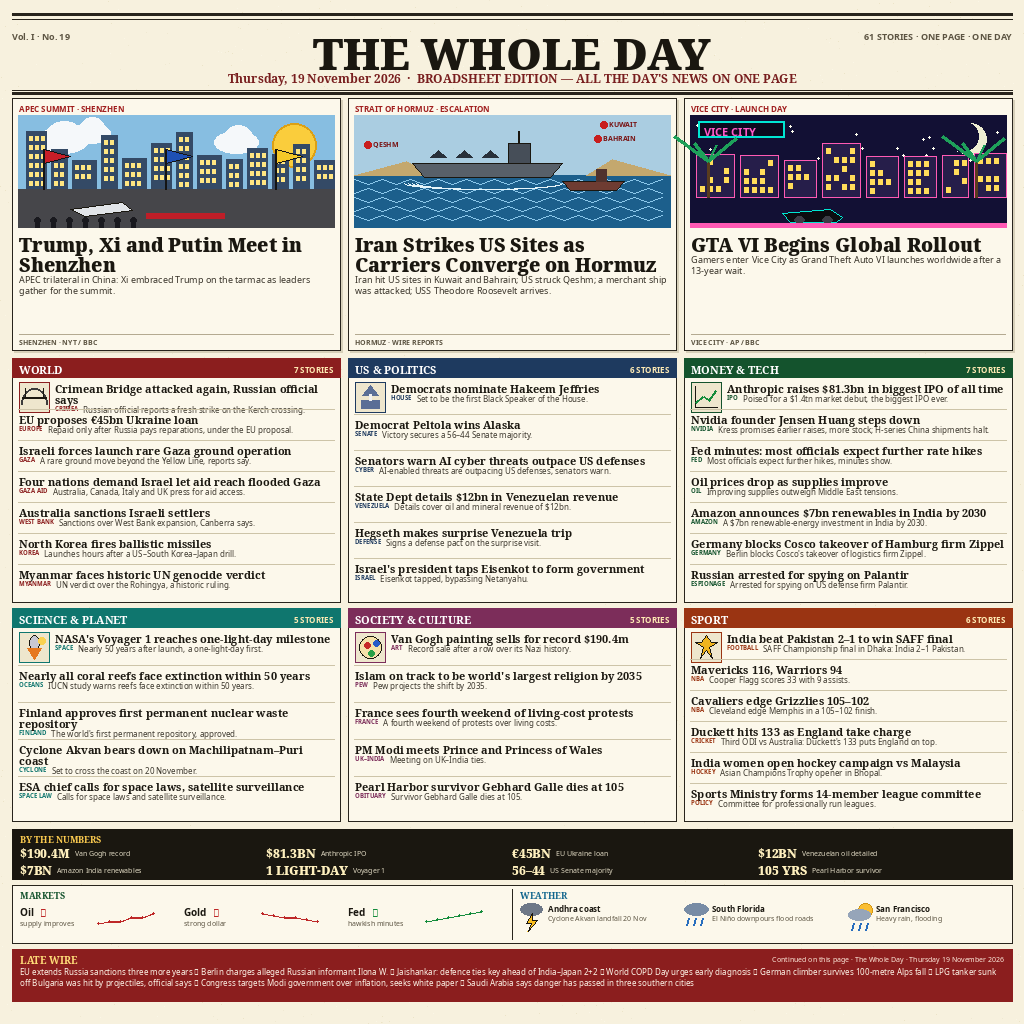
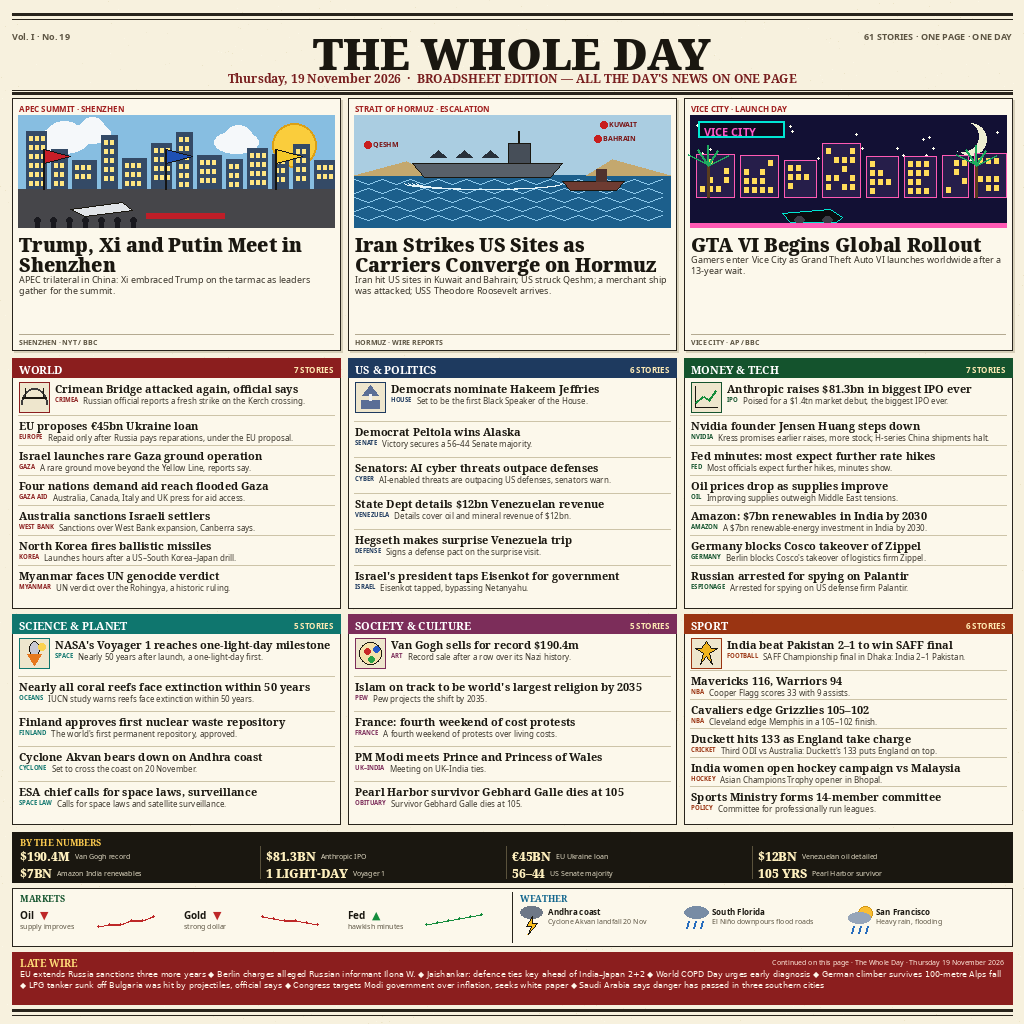
Revision rounds: fix section overflow so all bands fit, DejaVu arrows/ticker glyphs, trimmed dense headlines, palm redraw, page footer rule

Changed region(s): [[0.0, 0.375, 1.0, 1.0], [0.6562, 0.125, 0.7188, 0.1562], [0.9375, 0.125, 0.9688, 0.1562]]

diff --git a/broadsheet.py b/broadsheet.py
@@ -15,6 +15,8 @@ SERIF_REG = f"{FD}/NotoSerif-Regular.ttf"
 SANS_BOLD = f"{FD}/NotoSans-Bold.ttf"
 SANS_REG = f"{FD}/NotoSans-Regular.ttf"
 SANS_SEMI = f"{FD}/NotoSans-SemiBold.ttf"
+DEJA = "/usr/share/fonts/truetype/dejavu/DejaVuSans.ttf"
+DEJA_BOLD = "/usr/share/fonts/truetype/dejavu/DejaVuSans-Bold.ttf"
 
 _cache = {}
 def F(path, size):
@@ -76,42 +78,42 @@ HEROES = [
 
 SECTIONS = [
  ("WORLD", (139,30,30), "bridge", [
-   ("CRIMEA", "Crimean Bridge attacked again, Russian official says", "Russian official reports a fresh strike on the Kerch crossing."),
+   ("CRIMEA", "Crimean Bridge attacked again, official says", "Russian official reports a fresh strike on the Kerch crossing."),
    ("EUROPE", "EU proposes \u20ac45bn Ukraine loan", "Repaid only after Russia pays reparations, under the EU proposal."),
-   ("GAZA", "Israeli forces launch rare Gaza ground operation", "A rare ground move beyond the Yellow Line, reports say."),
-   ("GAZA AID", "Four nations demand Israel let aid reach flooded Gaza", "Australia, Canada, Italy and UK press for aid access."),
+   ("GAZA", "Israel launches rare Gaza ground operation", "A rare ground move beyond the Yellow Line, reports say."),
+   ("GAZA AID", "Four nations demand aid reach flooded Gaza", "Australia, Canada, Italy and UK press for aid access."),
    ("WEST BANK", "Australia sanctions Israeli settlers", "Sanctions over West Bank expansion, Canberra says."),
    ("KOREA", "North Korea fires ballistic missiles", "Launches hours after a US\u2013South Korea\u2013Japan drill."),
-   ("MYANMAR", "Myanmar faces historic UN genocide verdict", "UN verdict over the Rohingya, a historic ruling."),
+   ("MYANMAR", "Myanmar faces UN genocide verdict", "UN verdict over the Rohingya, a historic ruling."),
  ]),
  ("US & POLITICS", (30,58,95), "capitol", [
    ("HOUSE", "Democrats nominate Hakeem Jeffries", "Set to be the first Black Speaker of the House."),
    ("SENATE", "Democrat Peltola wins Alaska", "Victory secures a 56\u201344 Senate majority."),
-   ("CYBER", "Senators warn AI cyber threats outpace US defenses", "AI-enabled threats are outpacing US defenses, senators warn."),
-   ("VENEZUELA", "State Dept details $12bn in Venezuelan revenue", "Details cover oil and mineral revenue of $12bn."),
+   ("CYBER", "Senators: AI cyber threats outpace defenses", "AI-enabled threats are outpacing US defenses, senators warn."),
+   ("VENEZUELA", "State Dept details $12bn Venezuelan revenue", "Details cover oil and mineral revenue of $12bn."),
    ("DEFENSE", "Hegseth makes surprise Venezuela trip", "Signs a defense pact on the surprise visit."),
-   ("ISRAEL", "Israel's president taps Eisenkot to form government", "Eisenkot tapped, bypassing Netanyahu."),
+   ("ISRAEL", "Israel's president taps Eisenkot for government", "Eisenkot tapped, bypassing Netanyahu."),
  ]),
  ("MONEY & TECH", (20,83,45), "chart", [
-   ("IPO", "Anthropic raises $81.3bn in biggest IPO of all time", "Poised for a $1.4tn market debut, the biggest IPO ever."),
+   ("IPO", "Anthropic raises $81.3bn in biggest IPO ever", "Poised for a $1.4tn market debut, the biggest IPO ever."),
    ("NVIDIA", "Nvidia founder Jensen Huang steps down", "Kress promises earlier raises, more stock; H-series China shipments halt."),
-   ("FED", "Fed minutes: most officials expect further rate hikes", "Most officials expect further hikes, minutes show."),
+   ("FED", "Fed minutes: most expect further rate hikes", "Most officials expect further hikes, minutes show."),
    ("OIL", "Oil prices drop as supplies improve", "Improving supplies outweigh Middle East tensions."),
-   ("AMAZON", "Amazon announces $7bn renewables in India by 2030", "A $7bn renewable-energy investment in India by 2030."),
-   ("GERMANY", "Germany blocks Cosco takeover of Hamburg firm Zippel", "Berlin blocks Cosco's takeover of logistics firm Zippel."),
+   ("AMAZON", "Amazon: $7bn renewables in India by 2030", "A $7bn renewable-energy investment in India by 2030."),
+   ("GERMANY", "Germany blocks Cosco takeover of Zippel", "Berlin blocks Cosco's takeover of logistics firm Zippel."),
    ("ESPIONAGE", "Russian arrested for spying on Palantir", "Arrested for spying on US defense firm Palantir."),
  ]),
  ("SCIENCE & PLANET", (15,118,110), "rocket", [
    ("SPACE", "NASA's Voyager 1 reaches one-light-day milestone", "Nearly 50 years after launch, a one-light-day first."),
    ("OCEANS", "Nearly all coral reefs face extinction within 50 years", "IUCN study warns reefs face extinction within 50 years."),
-   ("FINLAND", "Finland approves first permanent nuclear waste repository", "The world's first permanent repository, approved."),
-   ("CYCLONE", "Cyclone Akvan bears down on Machilipatnam\u2013Puri coast", "Set to cross the coast on 20 November."),
-   ("SPACE LAW", "ESA chief calls for space laws, satellite surveillance", "Calls for space laws and satellite surveillance."),
+   ("FINLAND", "Finland approves first nuclear waste repository", "The world's first permanent repository, approved."),
+   ("CYCLONE", "Cyclone Akvan bears down on Andhra coast", "Set to cross the coast on 20 November."),
+   ("SPACE LAW", "ESA chief calls for space laws, surveillance", "Calls for space laws and satellite surveillance."),
  ]),
  ("SOCIETY & CULTURE", (124,45,90), "palette", [
-   ("ART", "Van Gogh painting sells for record $190.4m", "Record sale after a row over its Nazi history."),
+   ("ART", "Van Gogh sells for record $190.4m", "Record sale after a row over its Nazi history."),
    ("PEW", "Islam on track to be world's largest religion by 2035", "Pew projects the shift by 2035."),
-   ("FRANCE", "France sees fourth weekend of living-cost protests", "A fourth weekend of protests over living costs."),
+   ("FRANCE", "France: fourth weekend of cost protests", "A fourth weekend of protests over living costs."),
    ("UK\u2013INDIA", "PM Modi meets Prince and Princess of Wales", "Meeting on UK\u2013India ties."),
    ("OBITUARY", "Pearl Harbor survivor Gebhard Galle dies at 105", "Survivor Gebhard Galle dies at 105."),
  ]),
@@ -121,7 +123,7 @@ SECTIONS = [
    ("NBA", "Cavaliers edge Grizzlies 105\u2013102", "Cleveland edge Memphis in a 105\u2013102 finish."),
    ("CRICKET", "Duckett hits 133 as England take charge", "Third ODI vs Australia: Duckett's 133 puts England on top."),
    ("HOCKEY", "India women open hockey campaign vs Malaysia", "Asian Champions Trophy opener in Bhopal."),
-   ("POLICY", "Sports Ministry forms 14-member league committee", "Committee for professionally run leagues."),
+   ("POLICY", "Sports Ministry forms 14-member committee", "Committee for professionally run leagues."),
  ]),
 ]
 
@@ -226,9 +228,9 @@ def art_vice(d, x, y, w, h):
     d.rectangle([x+8,y+6,x+94,y+22], fill=(10,10,30), outline=(0,230,210), width=2)
     d.text((x+14,y+9), "VICE CITY", font=F(SANS_BOLD,11), fill=(255,90,200))
     for px in (x+18, x+w-30):
-        d.line([px,y+h-30,px,y+h-66], fill=(90,60,30), width=3)
-        for a in (-34,-14,8,28):
-            d.line([px,y+h-66,px+a,y+h-80-abs(a)//3], fill=(30,160,90), width=3)
+        d.line([px,y+h-30,px,y+h-62], fill=(90,60,30), width=3)
+        for a in (-20,-10,0,10,20):
+            d.line([px,y+h-62,px+a,y+h-72- (10-abs(a)//2)], fill=(30,170,95), width=2)
     d.polygon([(x+92,y+h-14),(x+140,y+h-18),(x+152,y+h-10),(x+146,y+h-5),(x+100,y+h-5)], fill=(12,12,16), outline=(0,230,210))
     d.ellipse([x+104,y+h-11,x+114,y+h-4], fill=(60,60,70)); d.ellipse([x+132,y+h-11,x+142,y+h-4], fill=(60,60,70))
     d.rectangle([x,y+h-4,x+w,y+h], fill=(255,90,180))
@@ -302,7 +304,7 @@ def main():
         d.text((x+7,hy+hh-13), hero["src"], font=F(SANS_BOLD,7), fill=MUTED)
     # Sections: 3 columns x 2 rows, row heights sized to card counts
     sy = hy+hh+8
-    row_h = [244, 213]
+    row_h = [250, 210]
     row_y = [sy, sy+row_h[0]+6]
     colw = hw
     positions = [(0,0),(1,0),(2,0),(0,1),(1,1),(2,1)]
@@ -321,18 +323,19 @@ def main():
             tx = x+7
             if ci==0:
                 thumb(d, x+7, cy+1, 30, tk, col); tx = x+43
-            yend = fit_block(d, tx, cy, head, SERIF_BOLD, 11, x2-7-tx, 1.05, 2, 9, INK)
-            dy = yend + 1
+            yend = fit_block(d, tx, cy, head, SERIF_BOLD, 11, x2-7-tx, 1.12, 2, 9, INK)
+            dy = yend + 2
             kw = tw(d, kick, F(SANS_BOLD,6))
             d.text((tx,dy), kick, font=F(SANS_BOLD,6), fill=col)
             d.text((tx+kw+5, dy), one_line(d, deck, F(SANS_REG,8), x2-7-(tx+kw+5)), font=F(SANS_REG,8), fill=(60,55,45))
-            cy += per
+            cy += per + (6 if ci==0 else -1)
             if ci < len(cards)-1: d.line([x+6,cy-3,x2-6,cy-3], fill=(205,196,168), width=1)
     # Numbers band
     ny = row_y[1] + row_h[1] + 8
     d.rectangle([M,ny,R,ny+50], fill=(26,23,16))
     d.text((M+8,ny+4), "BY THE NUMBERS", font=F(SERIF_BOLD,9), fill=(255,205,80))
     nw = (R-M-16)//4
+    for dv in range(1,4): d.line([M+8+dv*nw-6,ny+14,M+8+dv*nw-6,ny+46], fill=(90,82,60), width=1)
     for i,(big,lab) in enumerate(NUMBERS):
         col_i, row_i = i%4, i//4
         x = M+8+col_i*nw; y = ny+16+row_i*17
@@ -351,7 +354,7 @@ def main():
         d.text((x,y), name, font=F(SANS_BOLD,10), fill=INK)
         arrow = "\u25b2" if up else "\u25bc"
         acol = (20,140,60) if up else (190,40,40)
-        d.text((x+tw(d,name,F(SANS_BOLD,10))+6,y), arrow, font=F(SANS_BOLD,11), fill=acol)
+        d.text((x+tw(d,name,F(SANS_BOLD,10))+6,y), arrow, font=F(DEJA_BOLD,11), fill=acol)
         d.text((x,y+13), note, font=F(SANS_REG,7), fill=MUTED)
         sx, sy2 = x+78, y+2
         coords = [(sx+j*11, sy2+pts[j]*2) for j in range(len(pts))]
@@ -370,8 +373,9 @@ def main():
     d.text((R-8-tw(d,folio,F(SANS_REG,7)),ty+5), folio, font=F(SANS_REG,7), fill=(255,235,220))
     ticker_text = "  \u25c6  ".join(TICKER)
     yy = ty+17
-    for ln in wrap(d, ticker_text, F(SANS_REG,8), R-M-16)[:3]:
-        d.text((M+8,yy), ln, font=F(SANS_REG,8), fill=(255,248,235)); yy += 11
+    for ln in wrap(d, ticker_text, F(DEJA,8), R-M-16)[:3]:
+        d.text((M+8,yy), ln, font=F(DEJA,8), fill=(255,248,235)); yy += 11
+    d.line([M,1010,R,1010], fill=RULE, width=3); d.line([M,1015,R,1015], fill=RULE, width=1)
     out = os.path.join(os.path.dirname(os.path.abspath(__file__)), "entry.png")
     img.save(out, optimize=True)
     print(f"STORY_COUNT={count_stories()}")
